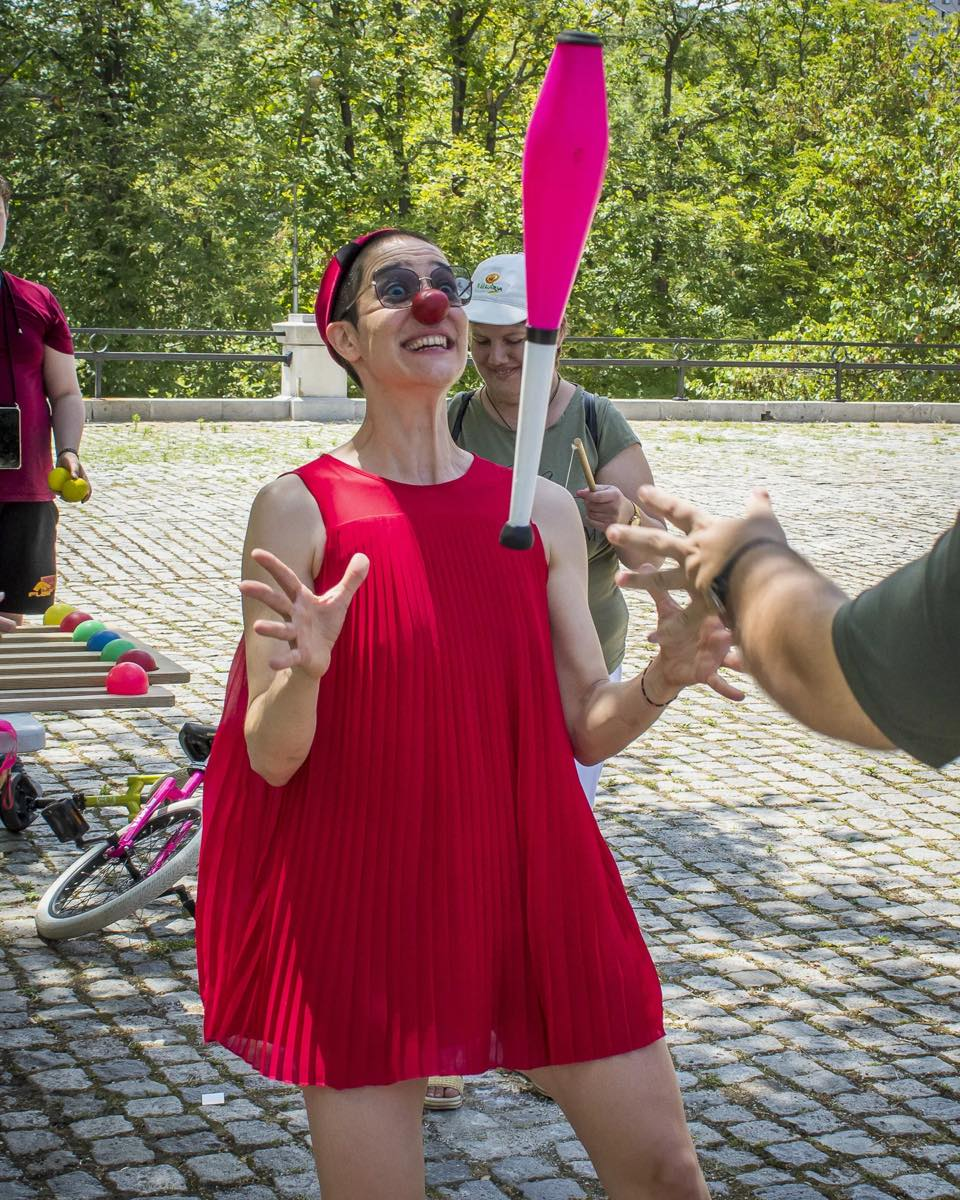
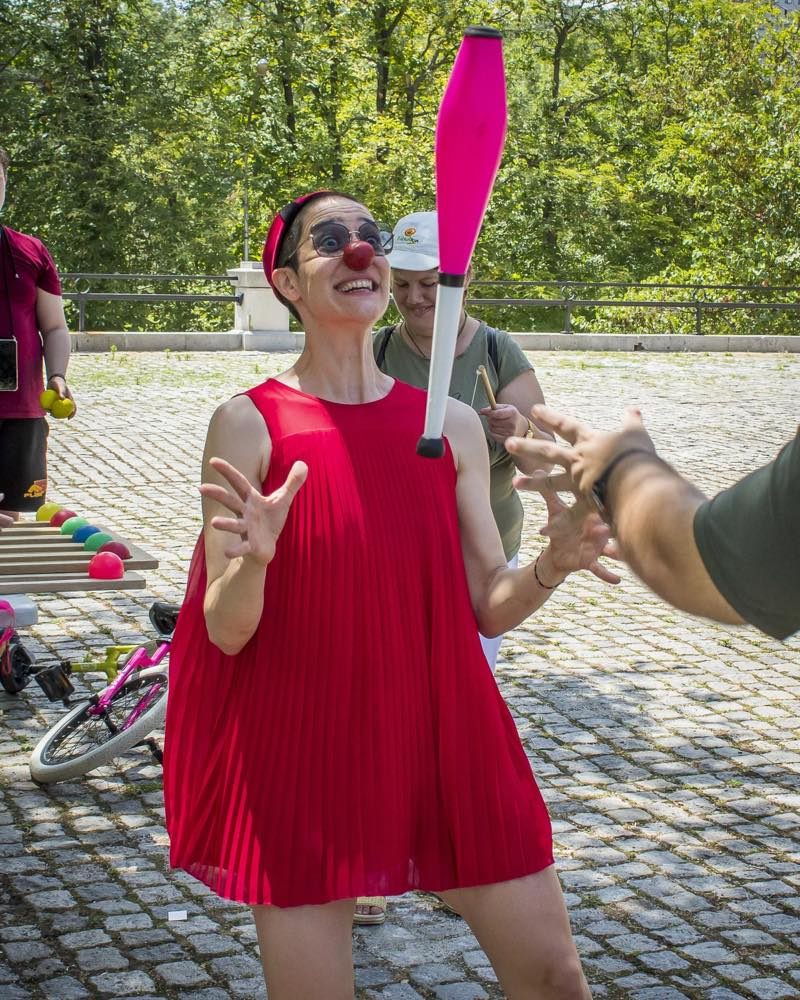
perf: re-encode the juggling photograph, and correct its declared size
The check suite flagged it three times: at 248 KB it made /about-titania the
heaviest page on the site in all three locales. That weight was mine, added
when the photograph replaced the old 384-pixel portrait.

Re-encode at 800x1000 rather than 960x1200. 178 KB, twenty-eight per cent
lighter, and still twice the width the column renders, so it stays sharp on a
retina display. Checked by eye before shipping, not by file size alone.

Correct the declared dimensions in seo.ts to match. They said 960x1200, and a
structured-data image size that disagrees with the file is the kind of error
that only surfaces in someone else's card renderer.

/about-titania now serves 336 KB, down from 406 KB.

diff --git a/docs/.vitepress/seo.ts b/docs/.vitepress/seo.ts
@@ -35,7 +35,7 @@ const IMAGES = {
   // portrait, which arrived on X and LinkedIn as a band across the middle.
   'titania-chaos-card.jpg': { w: 1200, h: 630, alt: 'Titania Chaos' },
   'titania-chaos-hero.webp': { w: 800, h: 992, alt: 'Titania Chaos' },
-  'titania-juggling.jpg': { w: 960, h: 1200, alt: 'Tatiana Petkova as Titania Chaos, catching a juggling club' },
+  'titania-juggling.jpg': { w: 800, h: 1000, alt: 'Tatiana Petkova as Titania Chaos, catching a juggling club' },
   'time-travelling-camera.jpg': { w: 768, h: 768, alt: "Titania's time-travelling camera" }
 } as const
 
